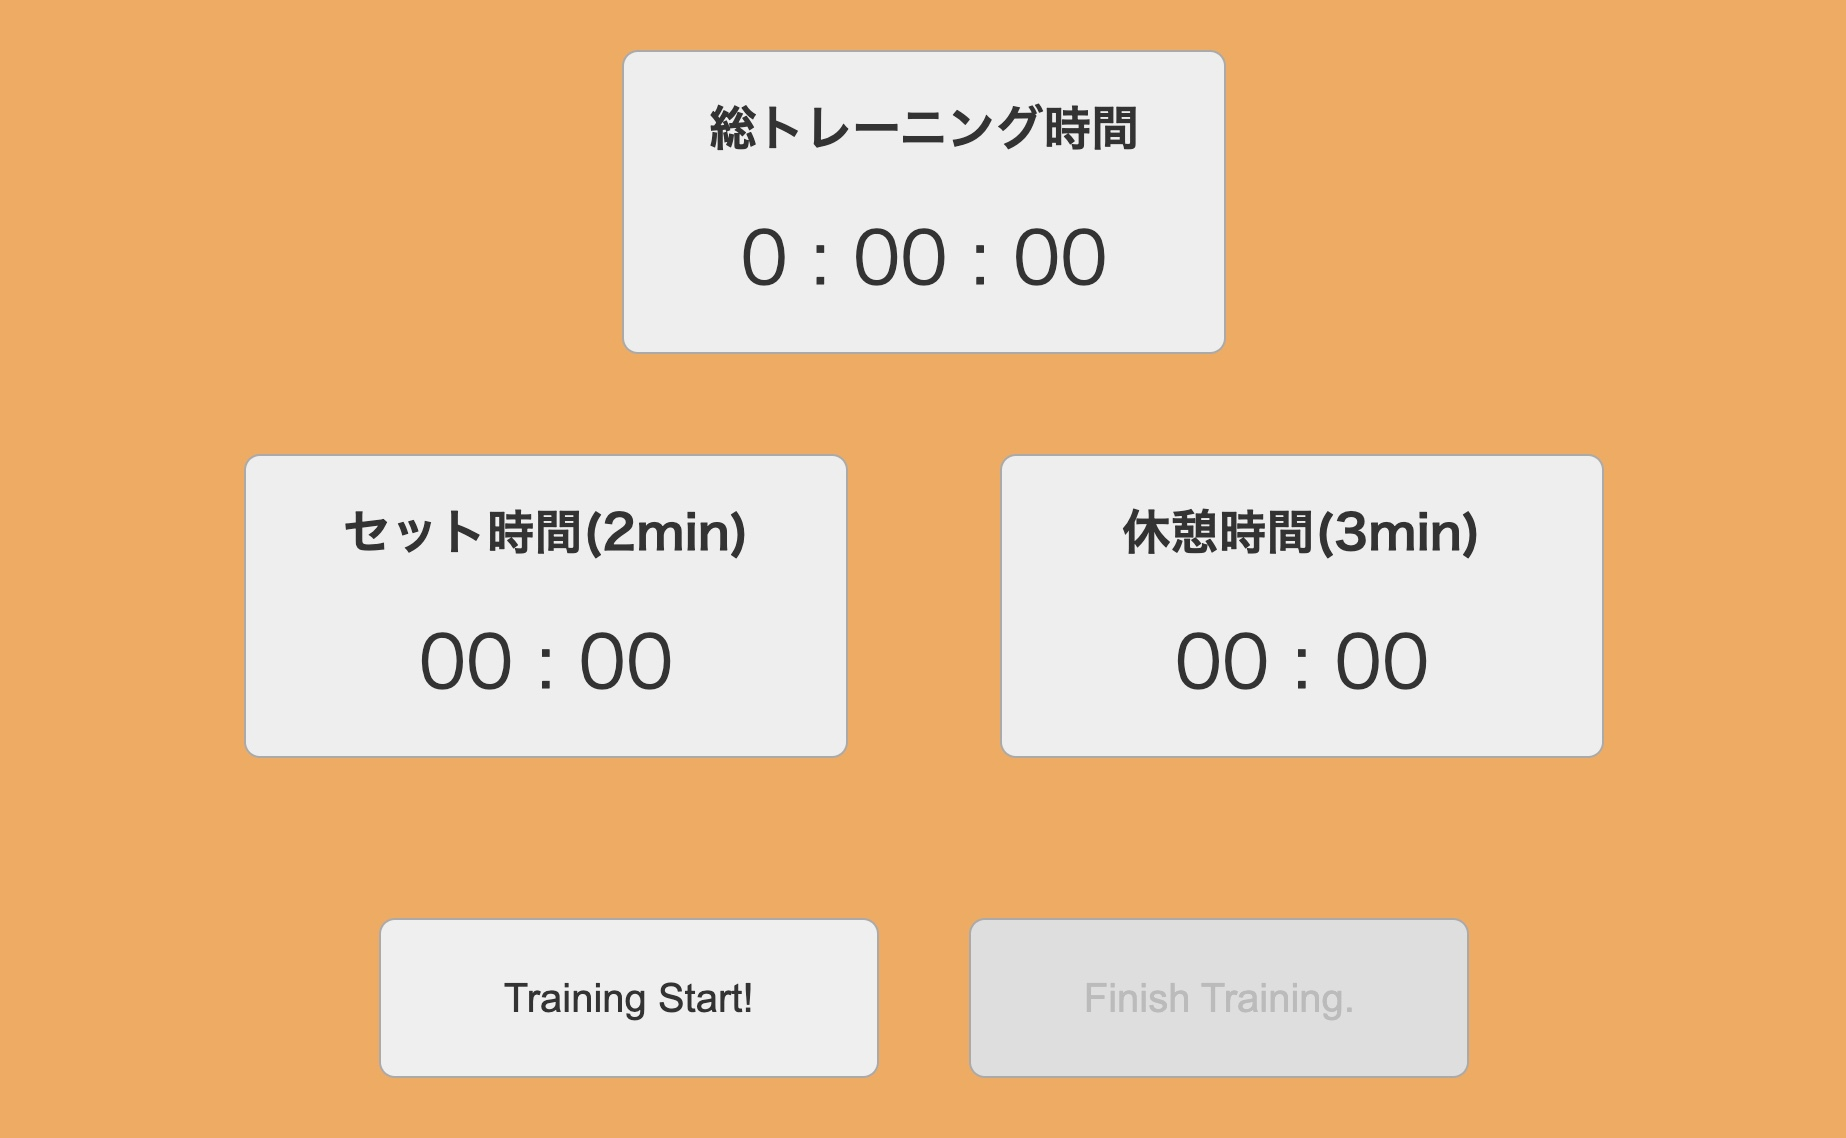
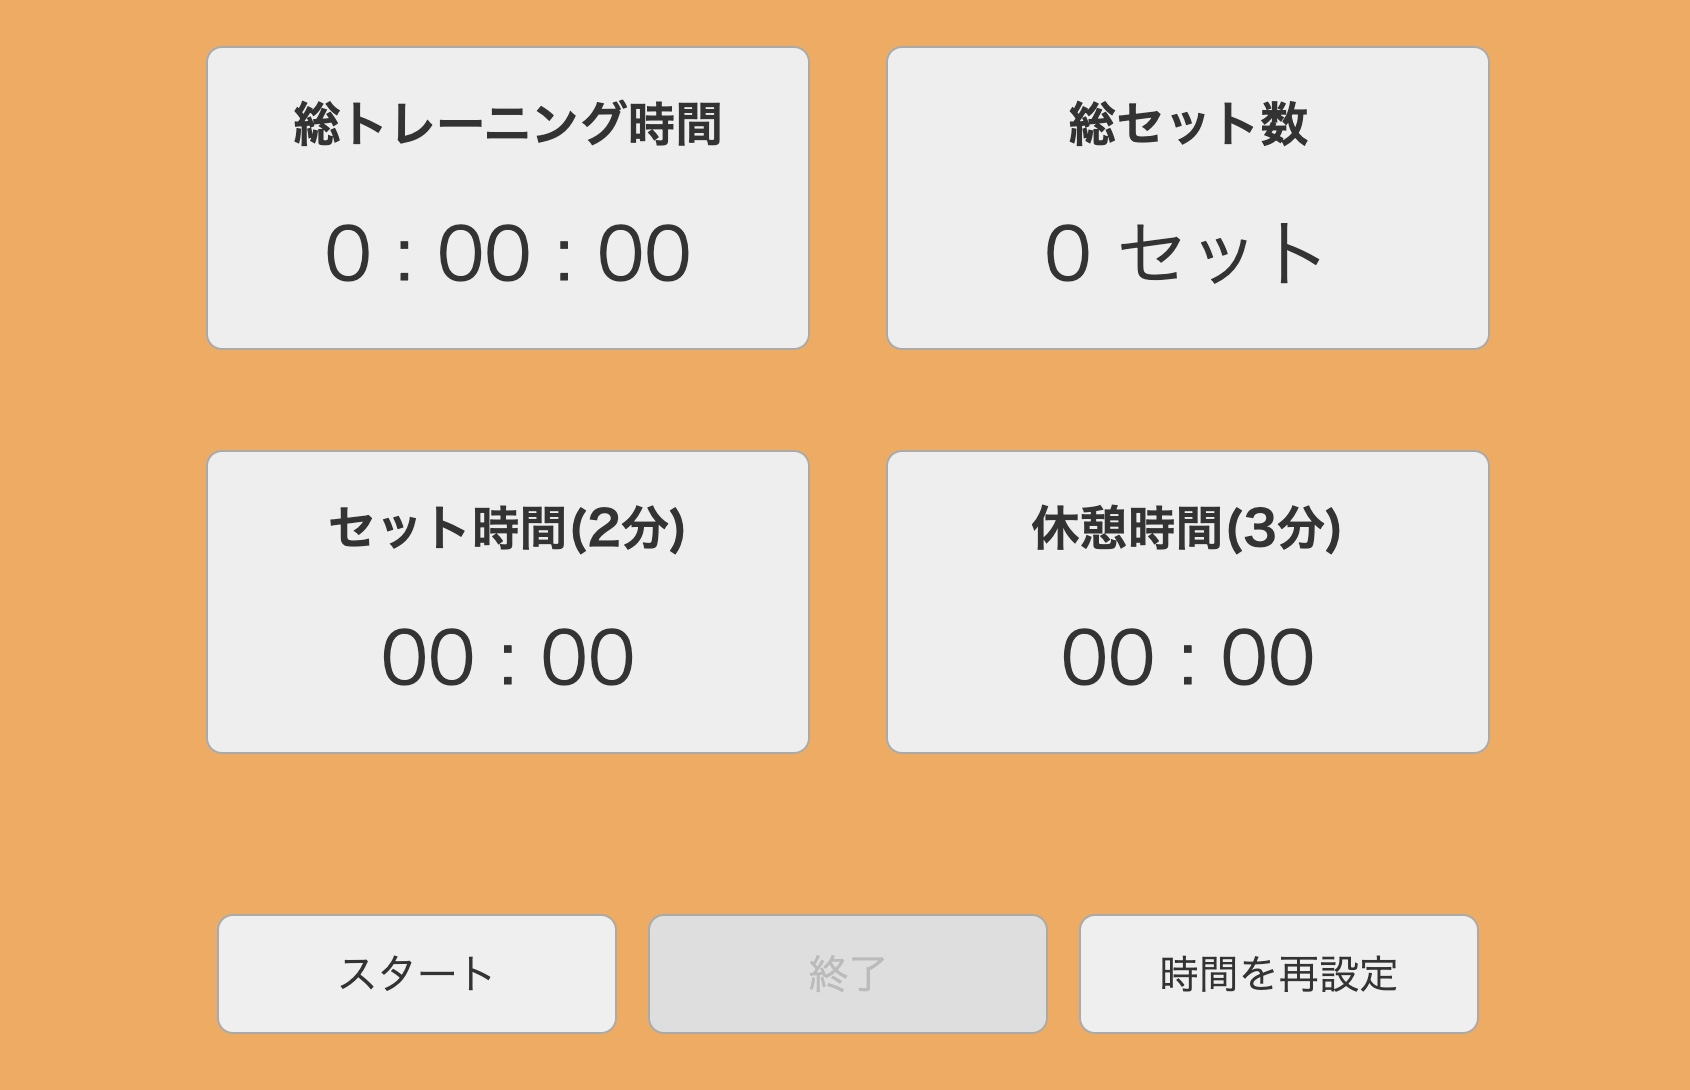
Add files via upload

diff --git a/index.html b/index.html
@@ -51,9 +51,10 @@
             <h2>クイズアプリ</h2>
             <ul>
               <li>4択問題のクイズアプリです。</li>
+              <li>使用言語：HTML・CSS（Bootstrap）・JavaScript</li>
               <li>ポケモンが好きな息子に遊んでもらうために、JavaScriptを使って制作しました。</li>
-              <li>使用言語はHTML・CSS（Bootstrap）・JavaScriptで、全問解答後にモーダルウィンドウを使った結果発表があり、正解数を自動でカウントしてくれます。</li>
-              <li>また配列に問題・選択肢・解答を追加するだけで全体に反映されるようにして、拡張性を持たせました。</li>
+              <li>全問解答後にモーダルウィンドウを使った結果発表があり、正解数を自動でカウントしてくれます。</li>
+              <li>配列に問題・選択肢・解答を追加するだけで全体に反映されるよう工夫し、拡張性を持たせました。</li>
             </ul>
             <div class="works_a">
               <a href="https://taroumanzz.github.io/quizgame/" target="_blank">
@@ -70,9 +71,10 @@
             <h2>トレーニング用タイマーアプリ</h2>
             <ul>
               <li>トレーニング中に使用するタイマーアプリです。</li>
+              <li>使用言語：HTML・CSS・JavaScript</li>
               <li>トレーニング時間を計測しつつ、集中が途切れないようアプリ側からサポートする目的で制作しました。</li>
-              <li>使用言語はHTML・CSS・JavaScriptで、各セット時間・休憩時間のタイマーを交互に動作させ、総トレーニング時間と併せて表示しています。</li>
-              <li>また、時間の切り替わりを背景色やサウンドでもアナウンスし、よりトレーニングに集中できるよう配慮しました。</li>
+              <li>各セット時間・休憩時間は1〜5分の間で選択し、タイマーをそれぞれ交互に動作させつつ、総トレーニング時間・総セット数と併せて表示しています。</li>
+              <li>時間の切り替わりを背景色やサウンドでもアナウンスし、よりトレーニングに集中できるよう配慮しました。</li>
             </ul>
             <div class="works_a">
               <a href="https://taroumanzz.github.io/trainingtimer/" target="_blank">
